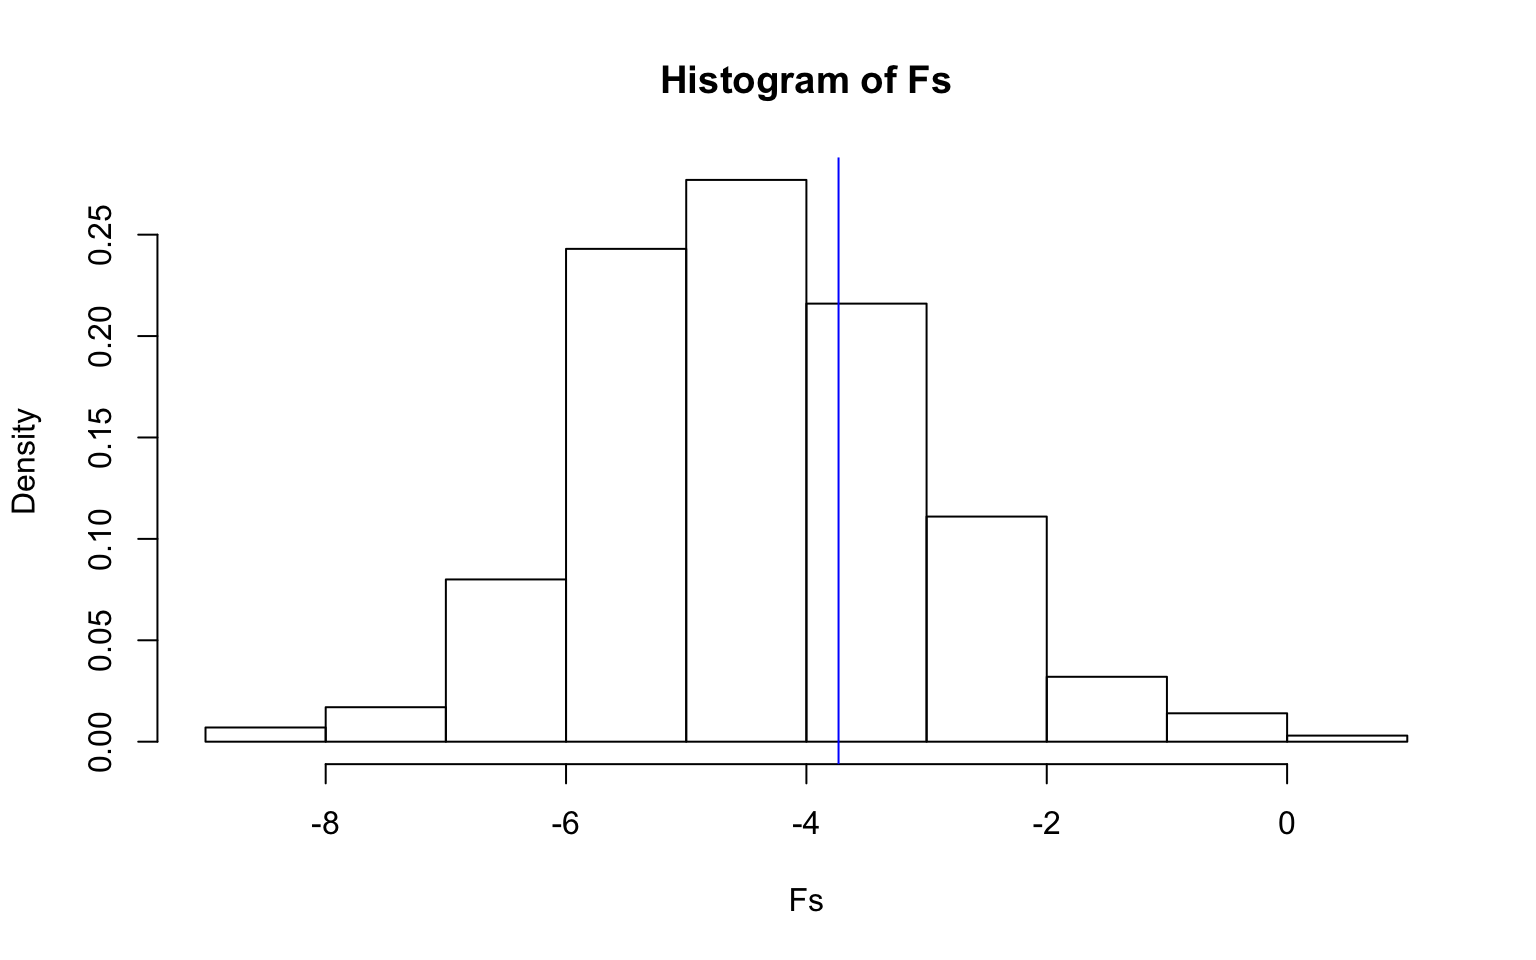
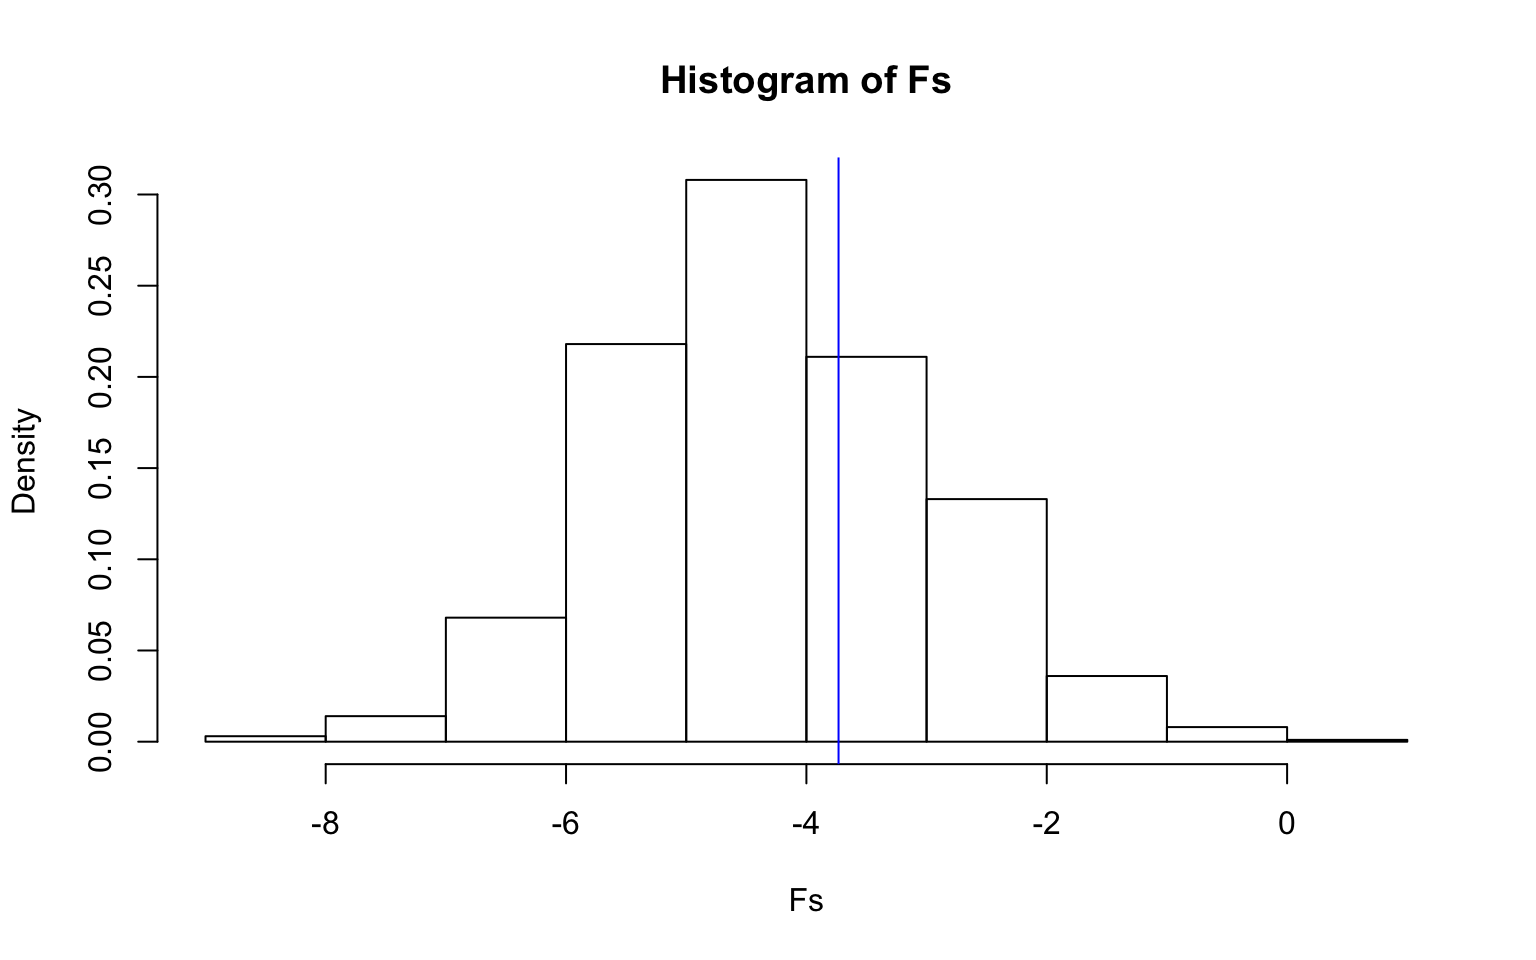
proj images

diff --git a/content/Project1.html b/content/Project1.html
@@ -24,12 +24,12 @@ Although the video game has been developed and improved throughout multiple inst
 <h4>1. Tidying: Rearranging Wide/Long</h4>
 <pre class="r"><code>library(jsonlite)
 library(tidyverse)</code></pre>
-<pre><code>## ── Attaching packages ────────────────────────────────────── tidyverse 1.3.0 ──</code></pre>
+<pre><code>## ── Attaching packages ──────────────────────────────────────────────────────── tidyverse 1.3.0 ──</code></pre>
 <pre><code>## ✔ ggplot2 3.2.1     ✔ purrr   0.3.3
 ## ✔ tibble  2.1.3     ✔ dplyr   0.8.3
 ## ✔ tidyr   1.0.0     ✔ stringr 1.4.0
 ## ✔ readr   1.3.1     ✔ forcats 0.4.0</code></pre>
-<pre><code>## ── Conflicts ───────────────────────────────────────── tidyverse_conflicts() ──
+<pre><code>## ── Conflicts ─────────────────────────────────────────────────────────── tidyverse_conflicts() ──
 ## ✖ dplyr::filter()  masks stats::filter()
 ## ✖ purrr::flatten() masks jsonlite::flatten()
 ## ✖ dplyr::lag()     masks stats::lag()</code></pre>
@@ -185,18 +185,18 @@ SmashUltimate %&gt;% filter(`Pro Score S/A Tier`==&quot;Best&quot;)</code></pre>
 <pre class="r"><code>plot1 &lt;- ggplot(data=SmashUltimate, aes(x=SmashUltimate$Character,y=SmashUltimate$`Meta Score Combined`,color=SmashUltimate$`Pro Score S/A Tier`))+ geom_point()
 
 plot1 + ggtitle(&quot;The Meta Score by Characters and Pro Score Category&quot;) + ylab(&quot;Meta Score Combined&quot;)+xlab(&quot;Characters&quot;)</code></pre>
-<p><img src="/hugo-goa-demo/Project1_files/figure-html/unnamed-chunk-4-1.png" width="672" /></p>
+<p><img src="/Project1_files/figure-html/unnamed-chunk-4-1.png" width="672" /></p>
 <pre class="r"><code>plot2 &lt;- ggplot(data=SmashUltimate, aes(x=SmashUltimate$Character, y=SmashUltimate$Weight, color=SmashUltimate$`Pro Score S/A Tier`))+ geom_point()
 
 plot2 + ggtitle(&quot;The Weight by Characters and Pro Score Category&quot;) + ylab(&quot;Weight&quot;)+ xlab(&quot;Characters&quot;)</code></pre>
-<p><img src="/hugo-goa-demo/Project1_files/figure-html/unnamed-chunk-4-2.png" width="672" /></p>
+<p><img src="/Project1_files/figure-html/unnamed-chunk-4-2.png" width="672" /></p>
 <pre class="r"><code>plot3 &lt;- ggplot(data=SmashUltimate, aes(x=SmashUltimate$Character,y=SmashUltimate$`Run Speed`, color=SmashUltimate$`Pro Score S/A Tier`))+ geom_point()
 
 plot3 + ggtitle(&quot;The Run Speed by Characters and Pro Score Category&quot;) + ylab(&quot;Run Speed&quot;)+xlab(&quot;Characters&quot;) + stat_summary(SmashUltimate =&quot;max_Run&quot;, color=&quot;green&quot;, size = 1)</code></pre>
 <pre><code>## Warning: Ignoring unknown parameters: SmashUltimate</code></pre>
 <pre><code>## No summary function supplied, defaulting to `mean_se()</code></pre>
 <pre><code>## Warning: Removed 55 rows containing missing values (geom_pointrange).</code></pre>
-<p><img src="/hugo-goa-demo/Project1_files/figure-html/unnamed-chunk-4-3.png" width="672" />
+<p><img src="/Project1_files/figure-html/unnamed-chunk-4-3.png" width="672" />
 In plot one, there was a positive relationship between the meta score rank and Pro-Score rank. Meaning that the more frequent character is played indicates the characters to which professional players are most frequently choosing. This is a possible indication that the character may be better since the more professional players are choosing certain characters more.
 In plot two, there was no correlation between the weight of the characters and the Pro-Score rank of the characters. This means that the characters chosen at tournaments was not influenced by the Weight of the character.
 In plot three, there was also no correlation between the Run speed of the characters and the Pro-Score rank of the Characters. This means that the chracters chosen at tournaments was not influenced by the Running Speed of the character.</p>
@@ -240,7 +240,7 @@ In plot three, there was also no correlation between the Run speed of the charac
 ## [49] reprex_0.3.0     lubridate_1.7.4  assertthat_0.2.1 rmarkdown_2.0   
 ## [53] httr_1.4.1       rstudioapi_0.10  R6_2.4.0         nlme_3.1-140    
 ## [57] compiler_3.6.1</code></pre>
-<pre><code>## [1] &quot;2019-12-15 20:21:13 CST&quot;</code></pre>
+<pre><code>## [1] &quot;2019-12-16 10:02:36 CST&quot;</code></pre>
 <pre><code>##                                                                                            sysname 
 ##                                                                                           &quot;Darwin&quot; 
 ##                                                                                            release 

diff --git a/public/project1/index.html b/public/project1/index.html
@@ -74,12 +74,12 @@ Although the video game has been developed and improved throughout multiple inst
 <h4>1. Tidying: Rearranging Wide/Long</h4>
 <pre class="r"><code>library(jsonlite)
 library(tidyverse)</code></pre>
-<pre><code>## ── Attaching packages ────────────────────────────────────── tidyverse 1.3.0 ──</code></pre>
+<pre><code>## ── Attaching packages ──────────────────────────────────────────────────────── tidyverse 1.3.0 ──</code></pre>
 <pre><code>## ✔ ggplot2 3.2.1     ✔ purrr   0.3.3
 ## ✔ tibble  2.1.3     ✔ dplyr   0.8.3
 ## ✔ tidyr   1.0.0     ✔ stringr 1.4.0
 ## ✔ readr   1.3.1     ✔ forcats 0.4.0</code></pre>
-<pre><code>## ── Conflicts ───────────────────────────────────────── tidyverse_conflicts() ──
+<pre><code>## ── Conflicts ─────────────────────────────────────────────────────────── tidyverse_conflicts() ──
 ## ✖ dplyr::filter()  masks stats::filter()
 ## ✖ purrr::flatten() masks jsonlite::flatten()
 ## ✖ dplyr::lag()     masks stats::lag()</code></pre>
@@ -235,18 +235,18 @@ SmashUltimate %&gt;% filter(`Pro Score S/A Tier`==&quot;Best&quot;)</code></pre>
 <pre class="r"><code>plot1 &lt;- ggplot(data=SmashUltimate, aes(x=SmashUltimate$Character,y=SmashUltimate$`Meta Score Combined`,color=SmashUltimate$`Pro Score S/A Tier`))+ geom_point()
 
 plot1 + ggtitle(&quot;The Meta Score by Characters and Pro Score Category&quot;) + ylab(&quot;Meta Score Combined&quot;)+xlab(&quot;Characters&quot;)</code></pre>
-<p><img src="/hugo-goa-demo/Project1_files/figure-html/unnamed-chunk-4-1.png" width="672" /></p>
+<p><img src="/Project1_files/figure-html/unnamed-chunk-4-1.png" width="672" /></p>
 <pre class="r"><code>plot2 &lt;- ggplot(data=SmashUltimate, aes(x=SmashUltimate$Character, y=SmashUltimate$Weight, color=SmashUltimate$`Pro Score S/A Tier`))+ geom_point()
 
 plot2 + ggtitle(&quot;The Weight by Characters and Pro Score Category&quot;) + ylab(&quot;Weight&quot;)+ xlab(&quot;Characters&quot;)</code></pre>
-<p><img src="/hugo-goa-demo/Project1_files/figure-html/unnamed-chunk-4-2.png" width="672" /></p>
+<p><img src="/Project1_files/figure-html/unnamed-chunk-4-2.png" width="672" /></p>
 <pre class="r"><code>plot3 &lt;- ggplot(data=SmashUltimate, aes(x=SmashUltimate$Character,y=SmashUltimate$`Run Speed`, color=SmashUltimate$`Pro Score S/A Tier`))+ geom_point()
 
 plot3 + ggtitle(&quot;The Run Speed by Characters and Pro Score Category&quot;) + ylab(&quot;Run Speed&quot;)+xlab(&quot;Characters&quot;) + stat_summary(SmashUltimate =&quot;max_Run&quot;, color=&quot;green&quot;, size = 1)</code></pre>
 <pre><code>## Warning: Ignoring unknown parameters: SmashUltimate</code></pre>
 <pre><code>## No summary function supplied, defaulting to `mean_se()</code></pre>
 <pre><code>## Warning: Removed 55 rows containing missing values (geom_pointrange).</code></pre>
-<p><img src="/hugo-goa-demo/Project1_files/figure-html/unnamed-chunk-4-3.png" width="672" />
+<p><img src="/Project1_files/figure-html/unnamed-chunk-4-3.png" width="672" />
 In plot one, there was a positive relationship between the meta score rank and Pro-Score rank. Meaning that the more frequent character is played indicates the characters to which professional players are most frequently choosing. This is a possible indication that the character may be better since the more professional players are choosing certain characters more.
 In plot two, there was no correlation between the weight of the characters and the Pro-Score rank of the characters. This means that the characters chosen at tournaments was not influenced by the Weight of the character.
 In plot three, there was also no correlation between the Run speed of the characters and the Pro-Score rank of the Characters. This means that the chracters chosen at tournaments was not influenced by the Running Speed of the character.</p>
@@ -290,7 +290,7 @@ In plot three, there was also no correlation between the Run speed of the charac
 ## [49] reprex_0.3.0     lubridate_1.7.4  assertthat_0.2.1 rmarkdown_2.0   
 ## [53] httr_1.4.1       rstudioapi_0.10  R6_2.4.0         nlme_3.1-140    
 ## [57] compiler_3.6.1</code></pre>
-<pre><code>## [1] &quot;2019-12-15 20:21:13 CST&quot;</code></pre>
+<pre><code>## [1] &quot;2019-12-16 10:02:36 CST&quot;</code></pre>
 <pre><code>##                                                                                            sysname 
 ##                                                                                           &quot;Darwin&quot; 
 ##                                                                                            release 

diff --git a/content/Project2.html b/content/Project2.html
@@ -473,9 +473,9 @@ summarize(sum(d[[1]]^2)/151 + sum(d[[2]]^2)/100 + sum(d[[3]]^2)/135 + sum(d[[4]]
 ((SST2-SSW2)/5)/(SSW2/715)})
 #p-value 
 mean(Fs&gt;F_OB)</code></pre>
-<pre><code>## [1] 0.308</code></pre>
+<pre><code>## [1] 0.326</code></pre>
 <pre class="r"><code> {hist(Fs,prob=T); abline(v=F_OB, col=&quot;blue&quot;, add=T)}</code></pre>
-<p><img src="/hugo-goa-demo/Project2_files/figure-html/unnamed-chunk-3-1.png" width="768" style="display: block; margin: auto;" />
+<p><img src="/Project2_files/figure-html/unnamed-chunk-3-1.png" width="768" style="display: block; margin: auto;" />
 Null Hypothesis: The Attack and Defense does not differ across different Generations of Pokemon.
 Alternative Hypothesis: The Attack and Defense differs for at least one Generation of Pokemon.
 Observing the results of the PERMANOVA test, we can conclude that there is a significant difference in the distribution of Attack and Defense among the Generation of Pokemon. The calculated p-value=0.302 and the observed F(-3.732512) is greater than the null distribution of F.</p>
@@ -514,16 +514,16 @@ Poke)
 <pre class="r"><code>#Plot
 P &lt;- predict(fit,Poke)
 ggplot(Poke,aes(Weight_kg_c, Speed))+geom_point()+geom_line(data=Poke, aes(y=P))</code></pre>
-<p><img src="/hugo-goa-demo/Project2_files/figure-html/unnamed-chunk-4-1.png" width="768" style="display: block; margin: auto;" /></p>
+<p><img src="/Project2_files/figure-html/unnamed-chunk-4-1.png" width="768" style="display: block; margin: auto;" /></p>
 <pre class="r"><code>#Assumptions
 library(lmtest)
 library(sandwich)
 resid&lt;-fit$residuals
 fitv&lt;-fit$fitted.values
 ggplot()+geom_point(aes(fitv,resid))+geom_hline(yintercept=0, color=&#39;blue&#39;)</code></pre>
-<p><img src="/hugo-goa-demo/Project2_files/figure-html/unnamed-chunk-4-2.png" width="768" style="display: block; margin: auto;" /></p>
+<p><img src="/Project2_files/figure-html/unnamed-chunk-4-2.png" width="768" style="display: block; margin: auto;" /></p>
 <pre class="r"><code>ggplot()+geom_histogram(aes(resid), bins=20)</code></pre>
-<p><img src="/hugo-goa-demo/Project2_files/figure-html/unnamed-chunk-4-3.png" width="768" style="display: block; margin: auto;" /></p>
+<p><img src="/Project2_files/figure-html/unnamed-chunk-4-3.png" width="768" style="display: block; margin: auto;" /></p>
 <pre class="r"><code>shapiro.test(resid)</code></pre>
 <pre><code>## 
 ##  Shapiro-Wilk normality test
@@ -604,7 +604,7 @@ summary(NFit)</code></pre>
 samp_dist%&gt;%t%&gt;%as.data.frame%&gt;%summarize_all(sd)</code></pre>
 <pre><code>## (Intercept) Height_m_c Weight_kg_c
 Height_m_c:Weight_kg_c
-## 1 1.080328 2.314964 0.02261437 0.009941229</code></pre>
+## 1 1.07006 2.327419 0.02285938 0.01010944</code></pre>
 <p>Bootstrap errors are less than the robust standard errors but greater than the original standard errors.</p>
 <ul>
 <li><strong>5. Logistic Regression</strong></li>
@@ -649,11 +649,11 @@ table(predict=as.numeric(Poke$predicted&gt;.5),truth=Poke$isLegendary)%&gt;%addm
 <pre class="r"><code>#Plot
 library(plotROC)
 ggplot(Poke,aes(Height_m,predicted,color=Weight_kg))+geom_line()</code></pre>
-<p><img src="/hugo-goa-demo/Project2_files/figure-html/unnamed-chunk-6-1.png" width="768" style="display: block; margin: auto;" /></p>
+<p><img src="/Project2_files/figure-html/unnamed-chunk-6-1.png" width="768" style="display: block; margin: auto;" /></p>
 <pre class="r"><code>ROCplot&lt;-ggplot(Poke)+geom_roc(aes(d=isLegendary,m=predicted), n.cuts=0)+
   geom_segment(aes(x=0,xend=1,y=0,yend=1),lty=2)
 ROCplot</code></pre>
-<p><img src="/hugo-goa-demo/Project2_files/figure-html/unnamed-chunk-6-2.png" width="768" style="display: block; margin: auto;" /></p>
+<p><img src="/Project2_files/figure-html/unnamed-chunk-6-2.png" width="768" style="display: block; margin: auto;" /></p>
 <pre class="r"><code>#AUC
 calc_auc(ROCplot)</code></pre>
 <pre><code>##   PANEL group       AUC

diff --git a/public/project2/index.html b/public/project2/index.html
@@ -530,9 +530,9 @@ summarize(sum(d[[1]]^2)/151 + sum(d[[2]]^2)/100 + sum(d[[3]]^2)/135 + sum(d[[4]]
 ((SST2-SSW2)/5)/(SSW2/715)})
 #p-value 
 mean(Fs&gt;F_OB)</code></pre>
-<pre><code>## [1] 0.308</code></pre>
+<pre><code>## [1] 0.326</code></pre>
 <pre class="r"><code> {hist(Fs,prob=T); abline(v=F_OB, col=&quot;blue&quot;, add=T)}</code></pre>
-<p><img src="/hugo-goa-demo/Project2_files/figure-html/unnamed-chunk-3-1.png" width="768" style="display: block; margin: auto;" />
+<p><img src="/Project2_files/figure-html/unnamed-chunk-3-1.png" width="768" style="display: block; margin: auto;" />
 Null Hypothesis: The Attack and Defense does not differ across different Generations of Pokemon.
 Alternative Hypothesis: The Attack and Defense differs for at least one Generation of Pokemon.
 Observing the results of the PERMANOVA test, we can conclude that there is a significant difference in the distribution of Attack and Defense among the Generation of Pokemon. The calculated p-value=0.302 and the observed F(-3.732512) is greater than the null distribution of F.</p>
@@ -571,16 +571,16 @@ Poke)
 <pre class="r"><code>#Plot
 P &lt;- predict(fit,Poke)
 ggplot(Poke,aes(Weight_kg_c, Speed))+geom_point()+geom_line(data=Poke, aes(y=P))</code></pre>
-<p><img src="/hugo-goa-demo/Project2_files/figure-html/unnamed-chunk-4-1.png" width="768" style="display: block; margin: auto;" /></p>
+<p><img src="/Project2_files/figure-html/unnamed-chunk-4-1.png" width="768" style="display: block; margin: auto;" /></p>
 <pre class="r"><code>#Assumptions
 library(lmtest)
 library(sandwich)
 resid&lt;-fit$residuals
 fitv&lt;-fit$fitted.values
 ggplot()+geom_point(aes(fitv,resid))+geom_hline(yintercept=0, color=&#39;blue&#39;)</code></pre>
-<p><img src="/hugo-goa-demo/Project2_files/figure-html/unnamed-chunk-4-2.png" width="768" style="display: block; margin: auto;" /></p>
+<p><img src="/Project2_files/figure-html/unnamed-chunk-4-2.png" width="768" style="display: block; margin: auto;" /></p>
 <pre class="r"><code>ggplot()+geom_histogram(aes(resid), bins=20)</code></pre>
-<p><img src="/hugo-goa-demo/Project2_files/figure-html/unnamed-chunk-4-3.png" width="768" style="display: block; margin: auto;" /></p>
+<p><img src="/Project2_files/figure-html/unnamed-chunk-4-3.png" width="768" style="display: block; margin: auto;" /></p>
 <pre class="r"><code>shapiro.test(resid)</code></pre>
 <pre><code>## 
 ##  Shapiro-Wilk normality test
@@ -661,7 +661,7 @@ summary(NFit)</code></pre>
 samp_dist%&gt;%t%&gt;%as.data.frame%&gt;%summarize_all(sd)</code></pre>
 <pre><code>## (Intercept) Height_m_c Weight_kg_c
 Height_m_c:Weight_kg_c
-## 1 1.080328 2.314964 0.02261437 0.009941229</code></pre>
+## 1 1.07006 2.327419 0.02285938 0.01010944</code></pre>
 <p>Bootstrap errors are less than the robust standard errors but greater than the original standard errors.</p>
 <ul>
 <li><strong>5. Logistic Regression</strong></li>
@@ -706,11 +706,11 @@ table(predict=as.numeric(Poke$predicted&gt;.5),truth=Poke$isLegendary)%&gt;%addm
 <pre class="r"><code>#Plot
 library(plotROC)
 ggplot(Poke,aes(Height_m,predicted,color=Weight_kg))+geom_line()</code></pre>
-<p><img src="/hugo-goa-demo/Project2_files/figure-html/unnamed-chunk-6-1.png" width="768" style="display: block; margin: auto;" /></p>
+<p><img src="/Project2_files/figure-html/unnamed-chunk-6-1.png" width="768" style="display: block; margin: auto;" /></p>
 <pre class="r"><code>ROCplot&lt;-ggplot(Poke)+geom_roc(aes(d=isLegendary,m=predicted), n.cuts=0)+
   geom_segment(aes(x=0,xend=1,y=0,yend=1),lty=2)
 ROCplot</code></pre>
-<p><img src="/hugo-goa-demo/Project2_files/figure-html/unnamed-chunk-6-2.png" width="768" style="display: block; margin: auto;" /></p>
+<p><img src="/Project2_files/figure-html/unnamed-chunk-6-2.png" width="768" style="display: block; margin: auto;" /></p>
 <pre class="r"><code>#AUC
 calc_auc(ROCplot)</code></pre>
 <pre><code>##   PANEL group       AUC
